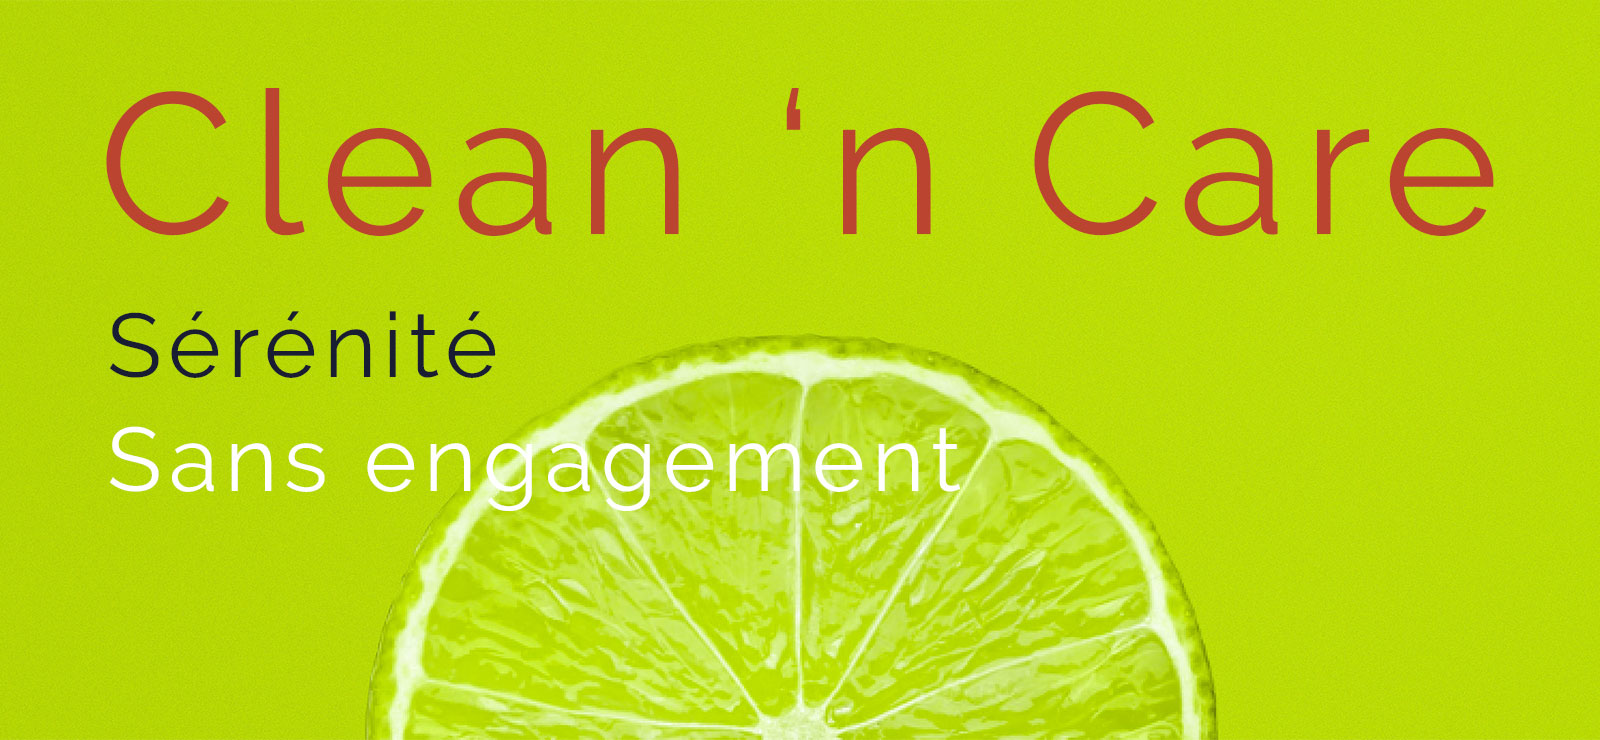
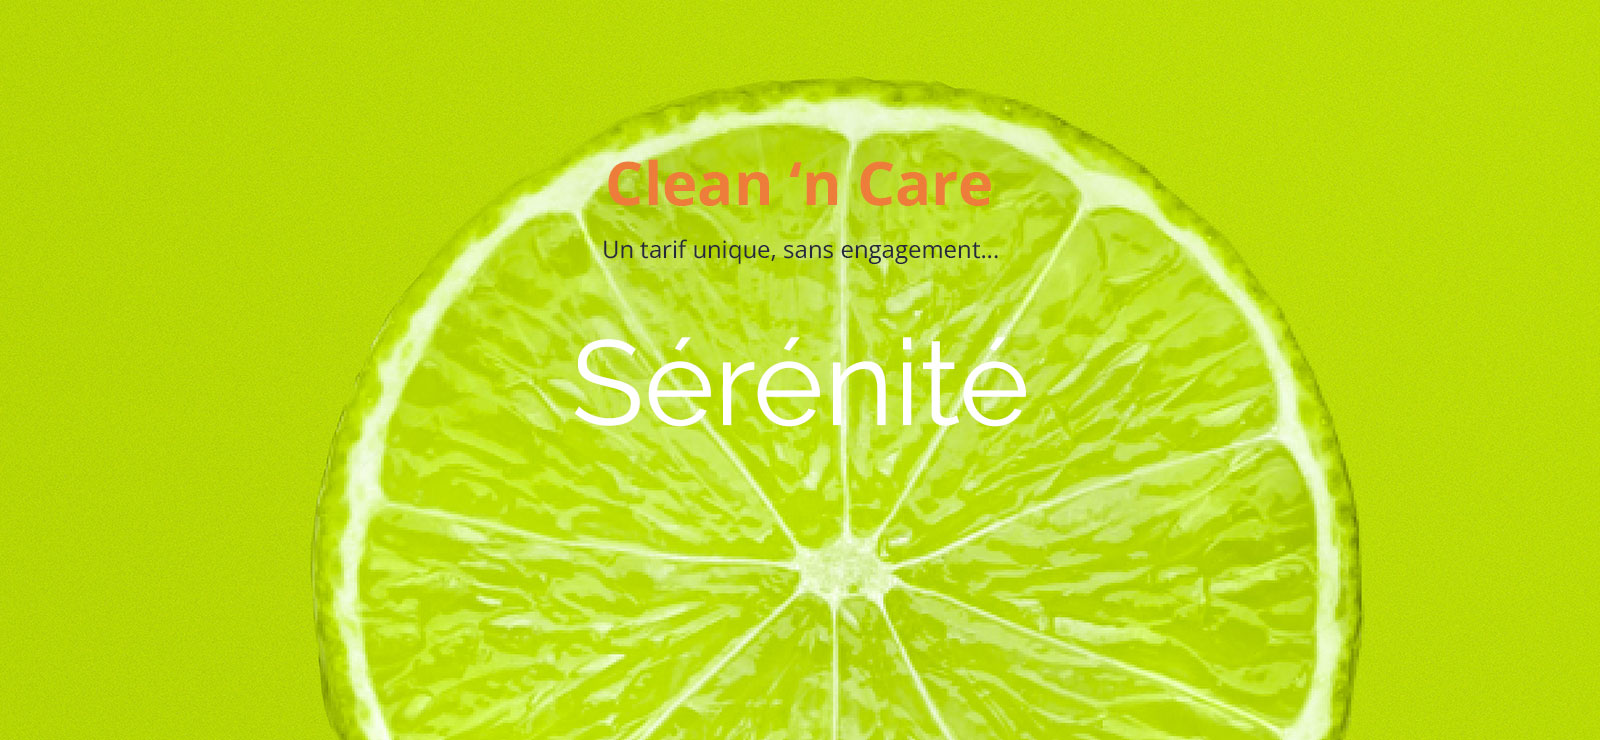
slide3
slide3 plus modif slide 2

diff --git a/index.html b/index.html
@@ -45,16 +45,15 @@
     <ol class="carousel-indicators">
       <li data-target="#myCarousel" data-slide-to="0" class="active"></li>
       <li data-target="#myCarousel" data-slide-to="1"></li>
+      <li data-target="#myCarousel" data-slide-to="2"></li>
     </ol>
     <!-- Wrapper for slides -->
     <div class="carousel-inner" role="listbox">
       <div class="item active"> <img src="images/slider/slid1.jpg" alt="qualite">
       </div>
-      <div class="item"> <img src="images/slider/slid2.jpg" alt="Chania">
-        <div class="carousel-caption">
-          <h3>Minimal Agency Template</h3>
-          <p>We're Australia based branding & design agency</p>
-        </div>
+      <div class="item"> <img src="images/slider/slid2.jpg" alt="Serenite">
+      </div>
+      <div class="item"> <img src="images/slider/slid3.jpg" alt="Serenite">
       </div>
     </div>
     <!-- Controls --> 
